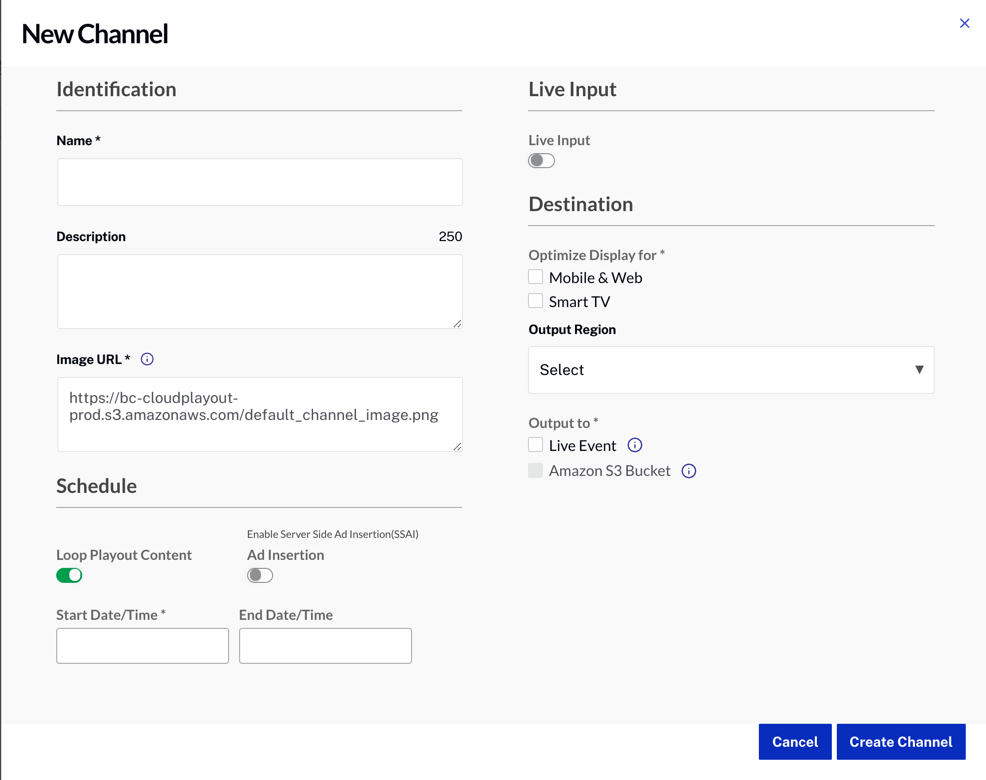
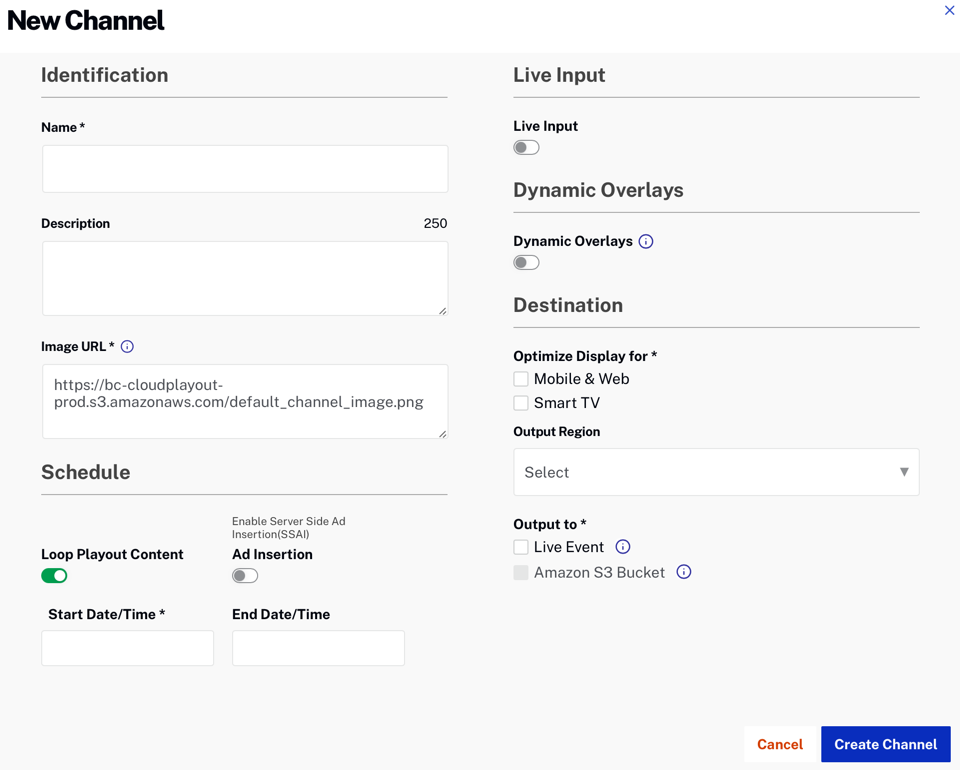
updating image

diff --git a/using-brightcove-beacon/cloud-playout/cloud-playout-stream-vod.html b/using-brightcove-beacon/cloud-playout/cloud-playout-stream-vod.html
@@ -93,7 +93,12 @@ parent: Cloud Playout
   <section class="bcls-section">
     <h2 id="add_videos">Adding content to a channel</h2>
 		<p>See <a href="/using-brightcove-beacon/cloud-playoutcloud-playout-add-content.html">Adding Content to a Cloud Playout Channel</a> for information on how to add VOD content, playlists, and live events to your channel.</p>
-    <p>Also see <a href="/using-brightcove-beacon/cloud-playoutadding-bumpers-to-vod.html">Adding Bumpers to Content</a> for adding bumpers to VOD or live event items.</p>
+    <p>Also see:</p> 
+    <ul>
+      <li><a href="/using-brightcove-beacon/cloud-playout/static-image-overlays.html">Adding Static Image Overlays</a></li>
+      <!-- <li><a href="/using-brightcove-beacon/cloud-playout/static-image-overlays.html">Adding Dynamic Overlays</a></li> -->
+      <li><a href="/using-brightcove-beacon/cloud-playout/adding-bumpers-to-vod.html">Adding Bumpers to Content</a></li>
+    </ul>
     <p>After videos and live events have been added to a channel, click <strong>Activate</strong> to activate the channel. A channel must be activated before streaming can begin. See the <a href="/using-brightcove-beacon/cloud-playoutusing-channel-actions.html">Using channel actions</a> for more information.</p>
     <aside class="bcls-aside bcls-aside--information">Note: To change the order of the videos in a program, click on a video and drag it to a new position.</aside>
     <p>When videos are added to a channel, a system-generated playlist will be created and visible in the Media module.</p>
